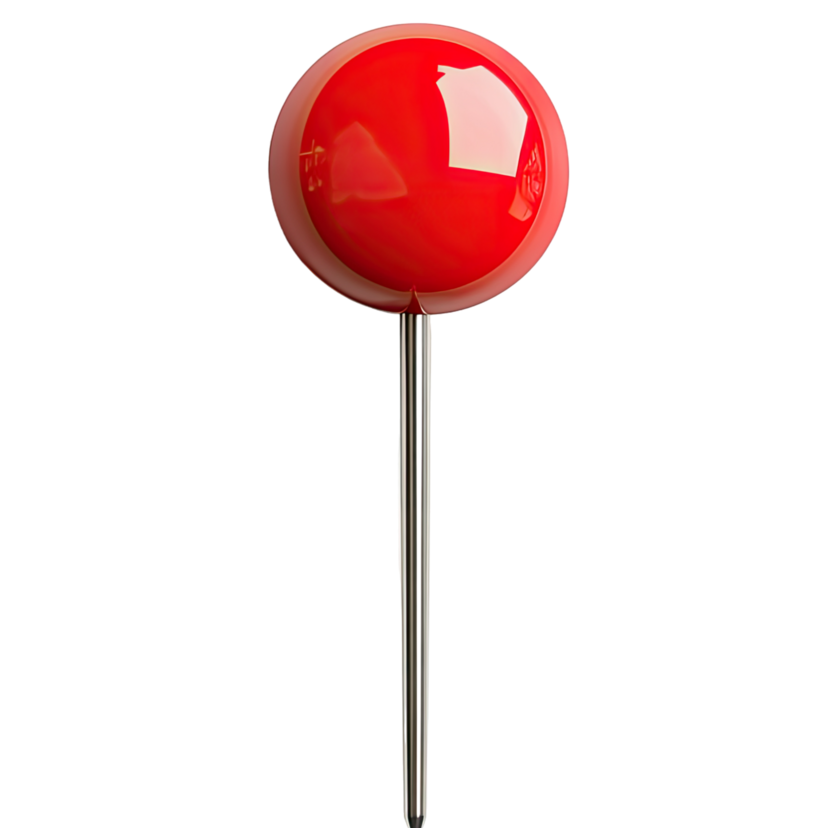
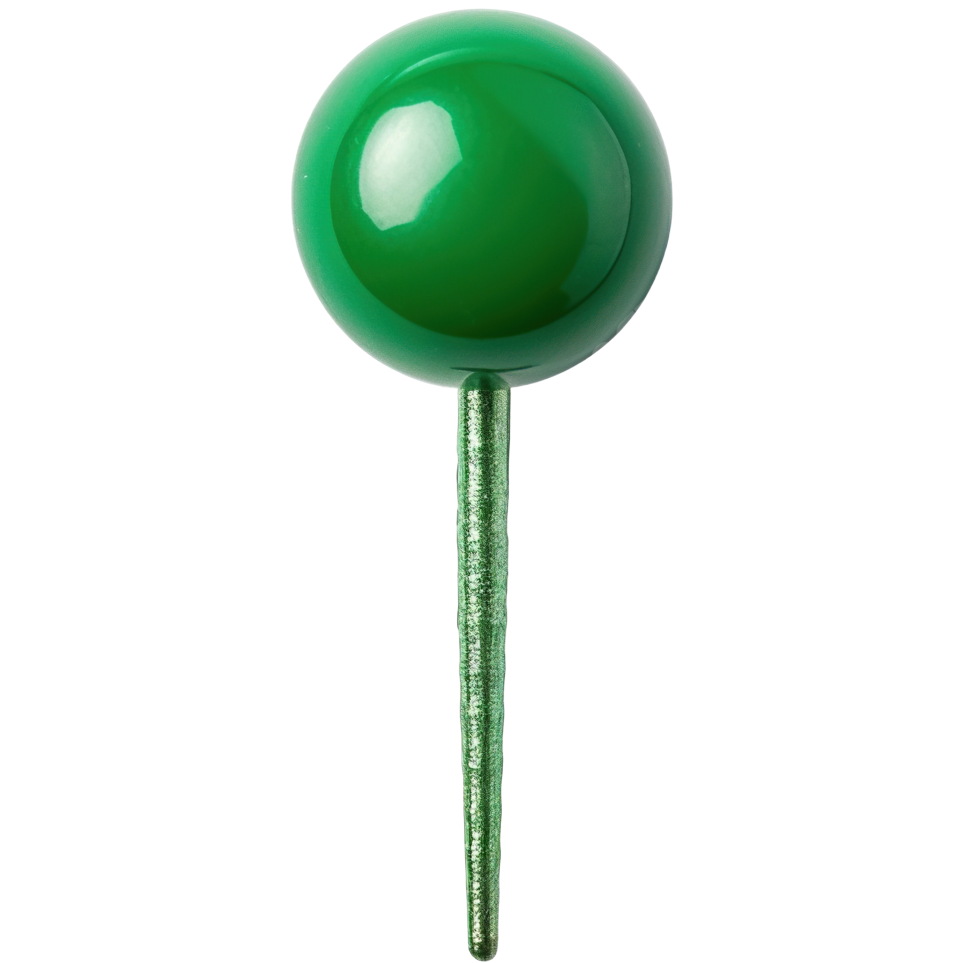
Updates

Changed region(s): [[0.3019, 0.0, 0.7246, 1.0]]

diff --git a/index.html b/index.html
@@ -5,8 +5,8 @@
     <link rel="icon" type="image/png" href="/Milestone/Logo_MileStone.png" />
     <meta name="viewport" content="width=device-width, initial-scale=1.0" />
     <title>MileStone</title>
-    <script type="module" crossorigin src="/Milestone/assets/index-J_isYWBy.js"></script>
-    <link rel="stylesheet" crossorigin href="/Milestone/assets/index-D_Bm5Dwi.css">
+    <script type="module" crossorigin src="/Milestone/assets/index-BOcWfU1n.js"></script>
+    <link rel="stylesheet" crossorigin href="/Milestone/assets/index-BhK5pamB.css">
   </head>
   <body>
     <div id="root"></div>

diff --git a/assets/index-BhK5pamB.css b/assets/index-BhK5pamB.css
@@ -1,0 +1,1 @@
[1 lines of base64/hex data omitted]